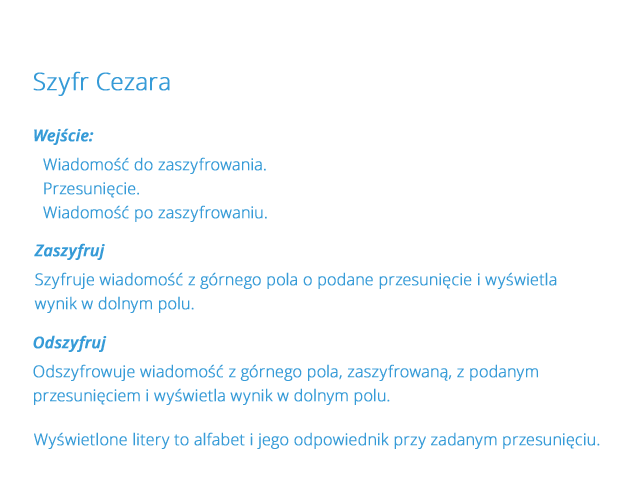
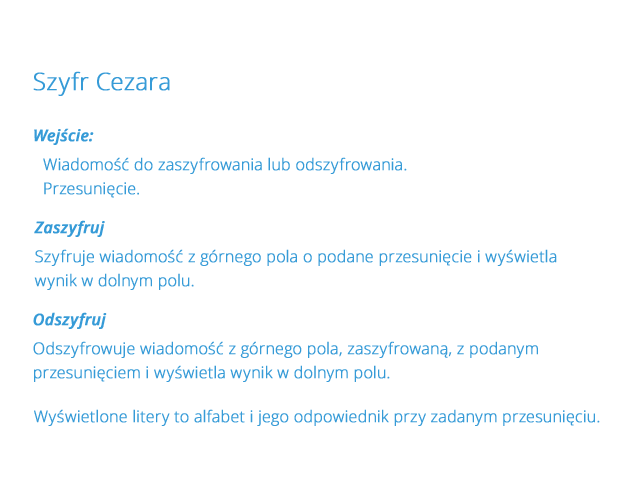
Updated help

Changed region(s): [[0.0312, 0.4062, 0.9375, 0.9375], [0.4062, 0.3125, 0.625, 0.375]]

diff --git a/index.html b/index.html
@@ -68,8 +68,4 @@
 
 <hr/>
 </body>
-
-
-
-<!--<h1><a href="https://github.com/karamazi/simulations/blob/master/TODO.md">Lista rzeczy do poprawy. (@github)</a></h1>-->
 </html>
